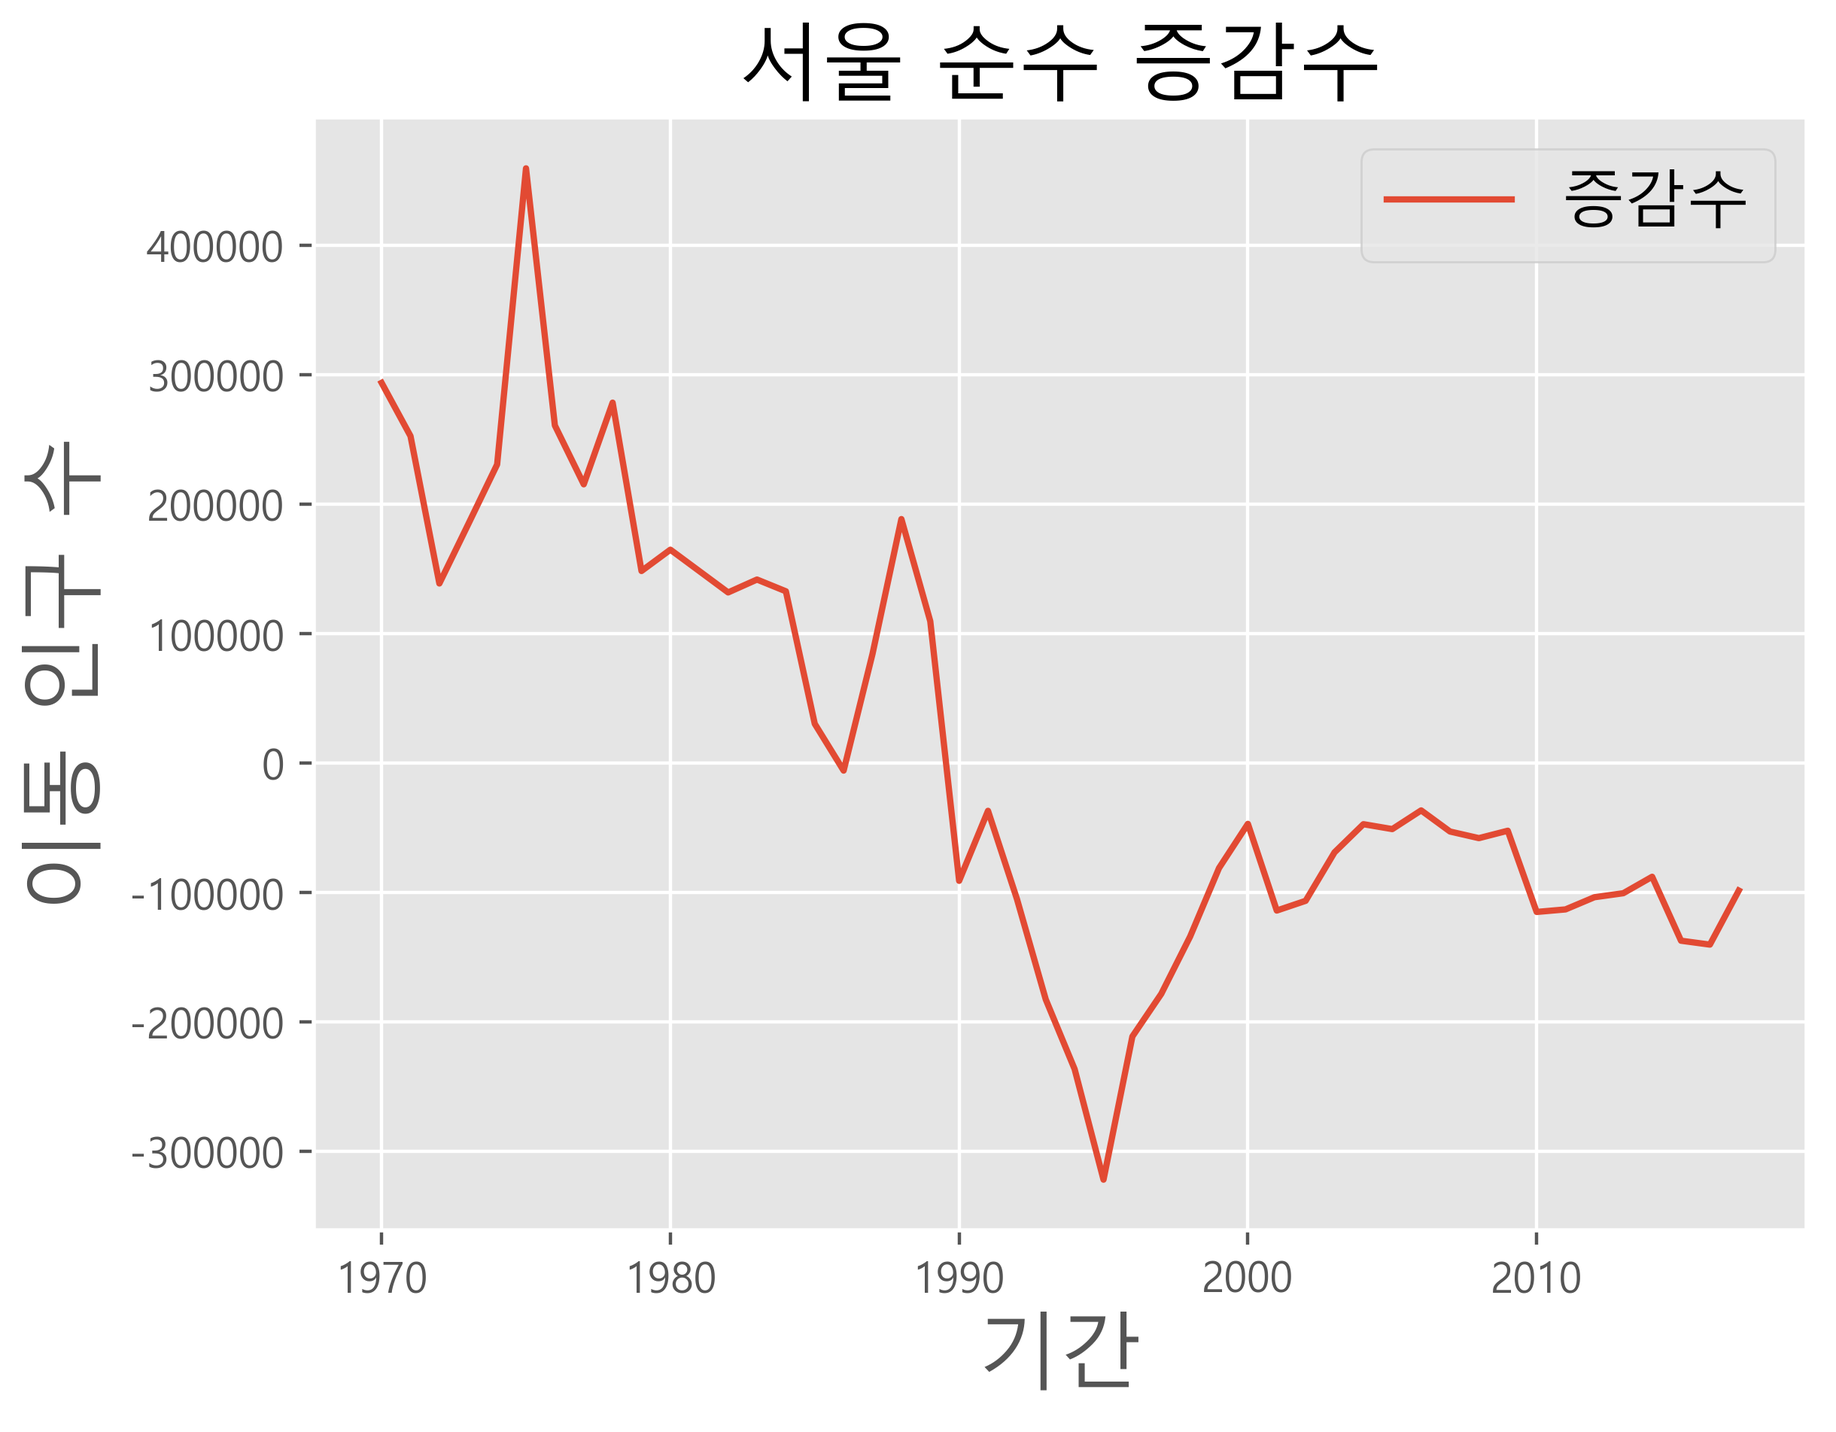
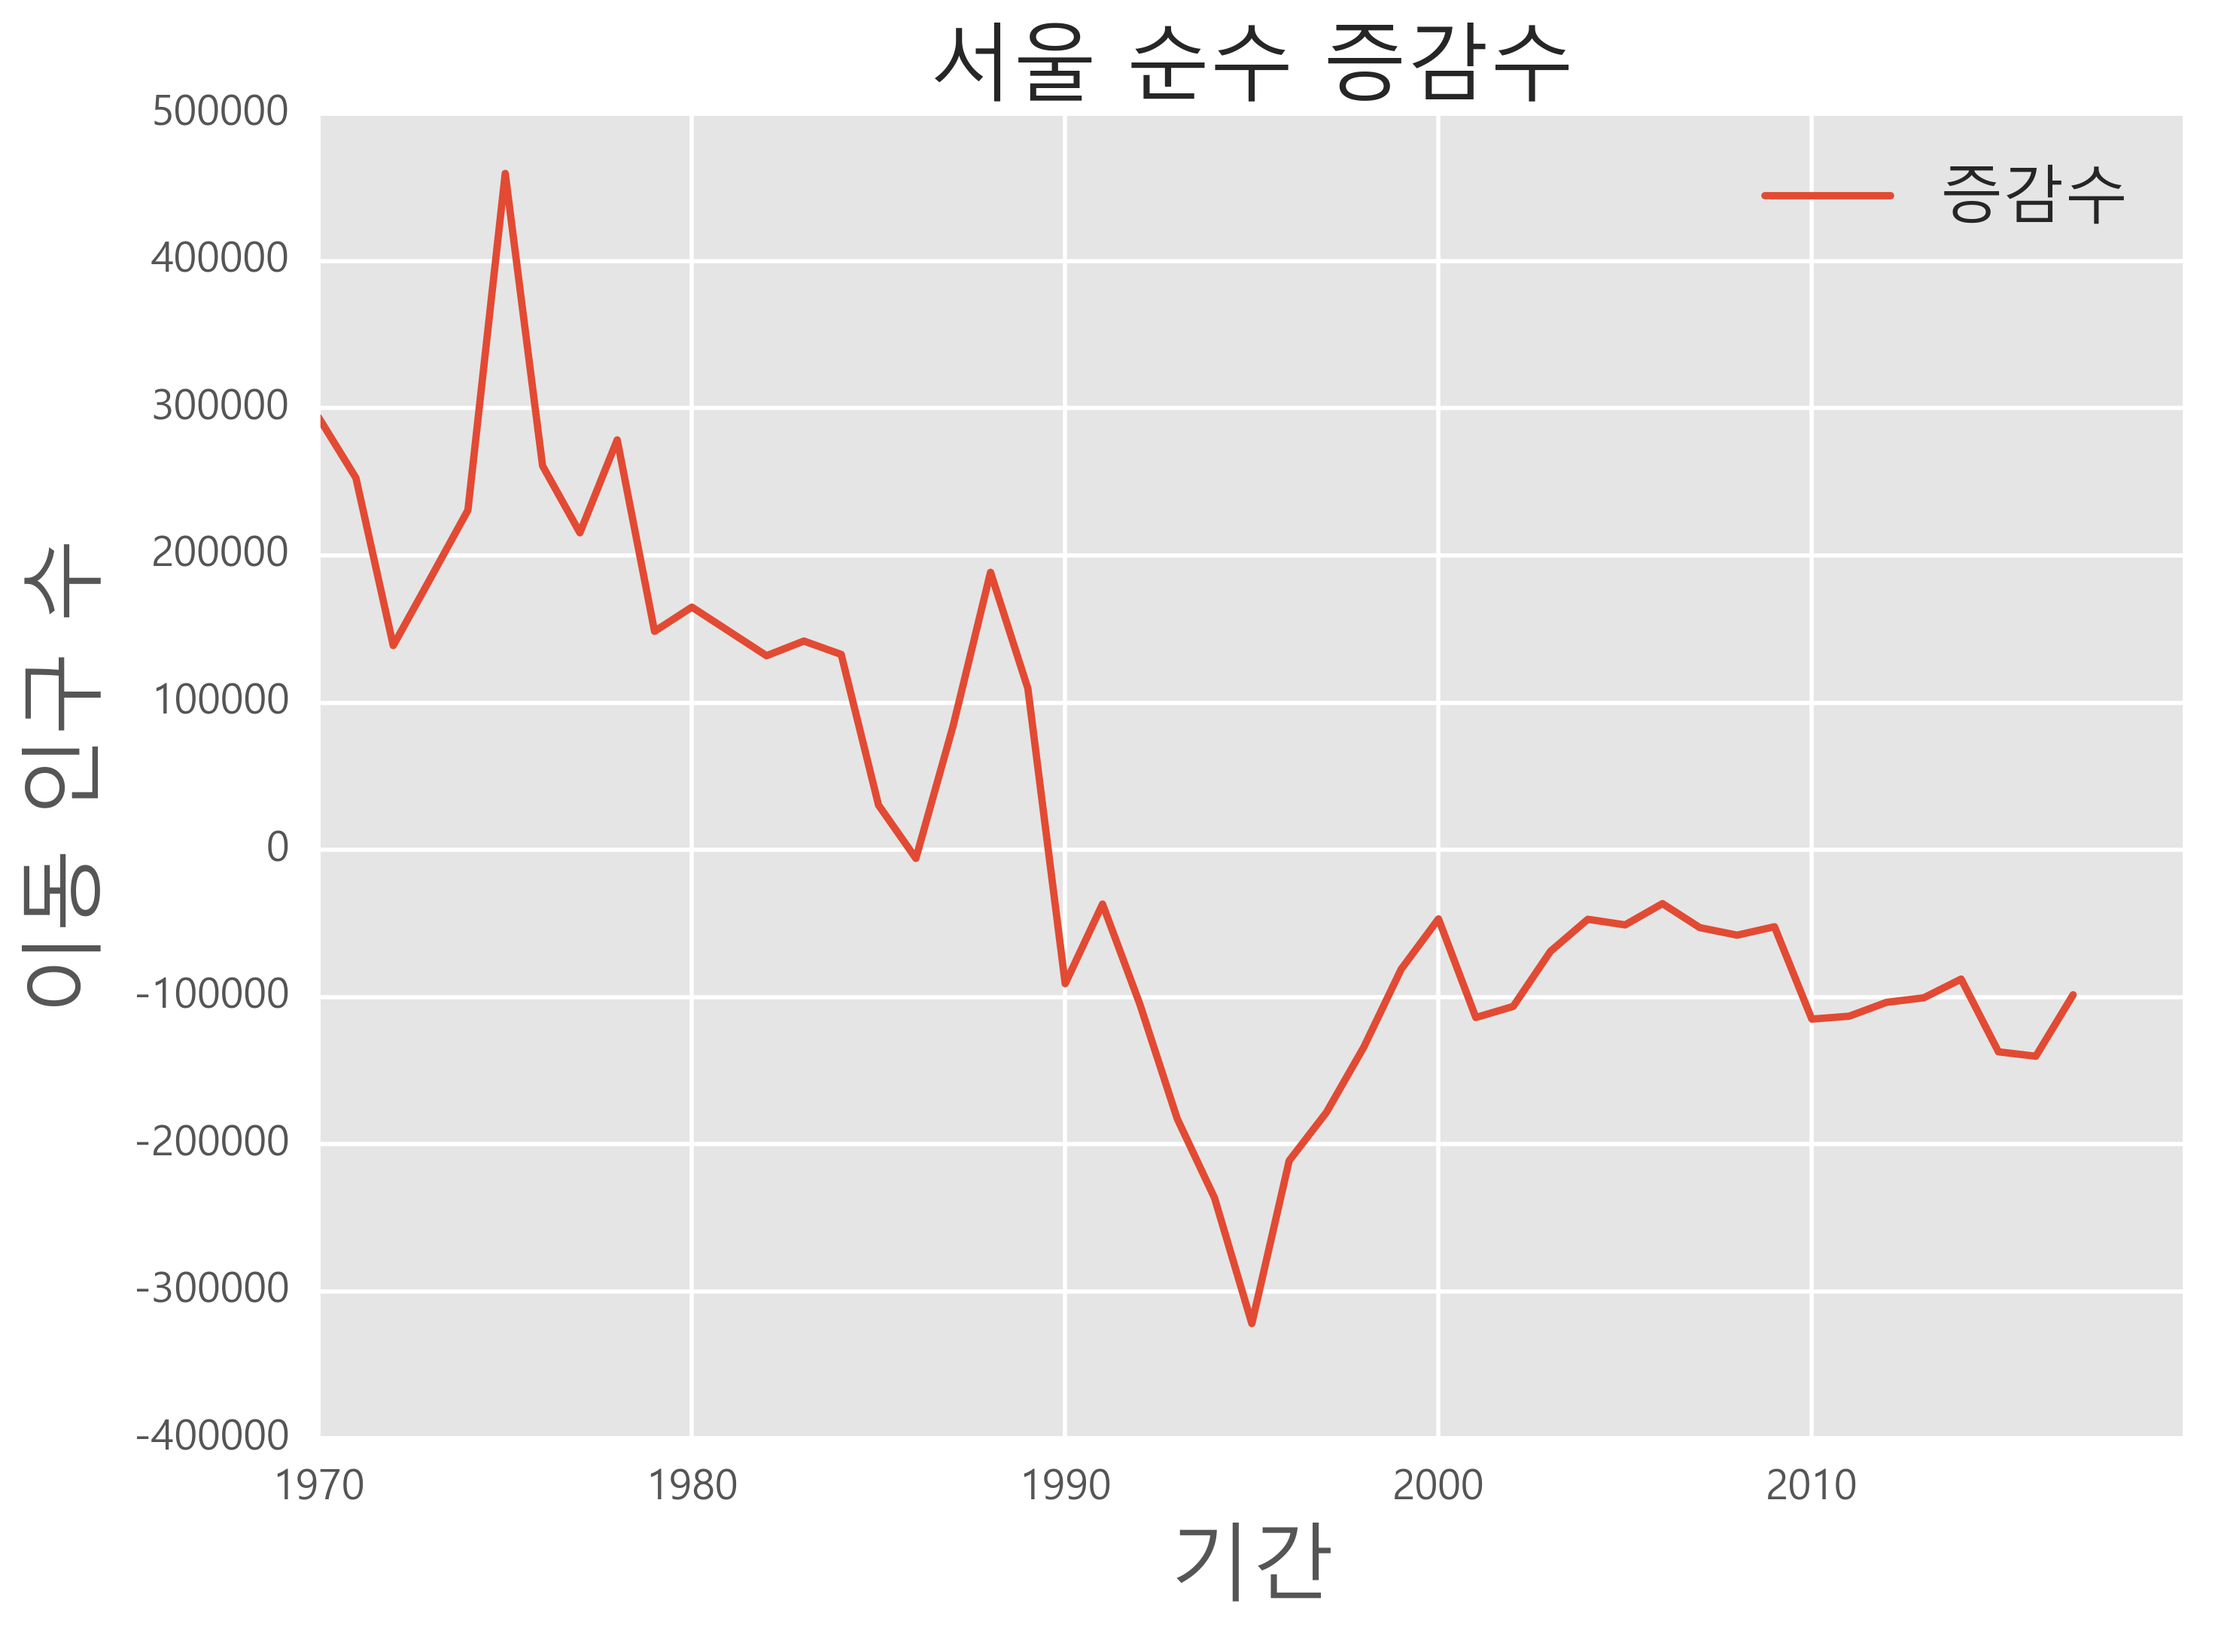
'20221206-0856'

diff --git a/수업소스/test1205_a.py b/수업소스/test1205_a.py
@@ -1,0 +1,142 @@
+# -*- coding: utf-8 -*-
+"""
+Created on Mon Dec  5 15:55:17 2022
+
+@author: KITCOOP
+test1205.py
+"""
+
+#1. 년도별 서울의 전입과 전출 정보를 막대그래프로 작성하여
+#  20221205-1.png 파일로 그래프 저장하기
+# 20221205-1.png 파일 참조
+import pandas as pd
+import matplotlib.pyplot as plt
+from matplotlib import  rc
+rc('font', family="Malgun Gothic") #현재 폰트 변경 설정.
+df = pd.read_excel('data/시도별 전출입 인구수.xlsx', header=0)
+df.info()
+#결측값을 앞의 데이터로 채우기
+df = df.fillna(method='ffill') 
+df.info()
+mask = ((df['전출지별'] == '서울특별시') & (df['전입지별'] == '전국')) 
+df_seoulout = df[mask] #전출지가 서울=>전국
+print(df_seoulout)
+df_seoulout = df_seoulout.drop(['전출지별'], axis=1)
+print(df_seoulout)
+#전입지별 컬럼을 index로 변환
+df_seoulout.set_index('전입지별', inplace=True)
+print(df_seoulout)
+#전국 인덱스를 전출건수 인덱스로 이름 변경
+df_seoulout.rename({'전국':'전출건수'}, axis=0, inplace=True)
+print(df_seoulout) #서울=>전국으로 전출한 건수 정보
+mask = ((df['전입지별'] == '서울특별시') & (df['전출지별'] == '전국'))
+df_seoulin = df[mask] #전국 => 서울 전입 데이터.
+print(df_seoulin)
+df_seoulin = df_seoulin.drop(['전입지별'], axis=1)
+df_seoulin.info()
+#전출지별 컬럼을 인덱스로 변환 
+df_seoulin.set_index('전출지별', inplace=True)
+#전국 인덱스이름을 전입건수로 변경 
+df_seoulin.rename({'전국':'전입건수'}, axis=0, inplace=True)
+print(df_seoulin)
+#pd.concat : 두개의 DataFrame 객체를 한개로 생성
+df_seoul = pd.concat([df_seoulout,df_seoulin])
+print(df_seoul)
+#전치행렬 : 행과열을 변경
+df_seoul = df_seoul.T 
+print(df_seoul)
+#막대그래프 출력
+df_seoul.plot(kind='bar', figsize=(20, 10), width=0.7,
+          color=['orange', 'green'])
+plt.title('서울 전입 전출 건수', size=30)
+plt.ylabel('이동 인구 수', size=20)
+plt.xlabel('기간', size=20)
+plt.ylim(1000000, 3500000) #y축의 데이터값의 범위.
+plt.legend(loc='best', fontsize=15) #범례
+plt.show()
+plt.savefig("202201205-1.png",dpi=400,bbox_inches="tight") #그래프를 파일로 저장 
+
+
+#2. 년도별 서울의 전입과 전출 정보이용하여 순수증감인원수를 
+#  선그래프로 작성하여 20221205-2.png 그래프 저장하기
+# 20221205-2.png 파일 참조
+import pandas as pd
+import matplotlib.pyplot as plt
+plt.rc('font', family="Malgun Gothic")
+df = pd.read_excel('data/시도별 전출입 인구수.xlsx', header=0)
+df = df.fillna(method='ffill')    
+mask = (((df['전출지별'] == '서울특별시') & (df['전입지별'] == '전국')) |
+        ((df['전입지별'] == '서울특별시') & (df['전출지별'] == '전국')))
+df_seoul = df[mask]
+df_seoul
+#'전출지별','전입지별' 컬럼을 삭제 
+df_seoul = df_seoul.drop(['전출지별','전입지별'], axis=1)
+df_seoul.index
+df_seoul.index = ["전입건수",'전출건수']
+print(df_seoul)
+df_seoul = df_seoul.T
+print(df_seoul)
+#증감수 컬럼 추가하기
+df_seoul["증감수"] = df_seoul["전입건수"] - df_seoul["전출건수"]
+print(df_seoul)
+plt.rcParams['axes.unicode_minus']=False #음수표현. -
+plt.style.use('ggplot') 
+#plot함수: 선그래프가 기본.
+df_seoul["증감수"].plot()
+plt.title('서울 순수 증감수', size=20)
+plt.ylabel('이동 인구 수', size=20)
+plt.xlabel('기간', size=20)
+plt.legend(loc='best', fontsize=15)
+plt.show()
+plt.savefig("20221205-2.png",dpi=400,bbox_inches="tight")
+
+
+
+#3. 남한의 전력량을(수력,화력,원자력)을 연합막대그래프로 작성하고,
+#   전력증감율을 선그래프로 작성하여 20221205-3.png 그래프로 저장하기
+# 20221205-3.png 파일 참조
+import pandas as pd
+import matplotlib.pyplot as plt
+plt.style.use('ggplot') 
+plt.rcParams['axes.unicode_minus']=False 
+df = pd.read_excel('data/남북한발전전력량.xlsx')
+df
+df = df.loc[0:4]
+df
+print(df.head())
+#axis='columns' : axis=1 같은 의미
+df.drop('전력량 (억㎾h)', axis='columns', inplace=True)
+print(df.head())
+#발전 전력별 컬럼을 인덱스로 변경
+df.set_index('발전 전력별', inplace=True)
+print(df.head())
+df = df.T
+print(df.head())
+#컬럼명 변경
+df = df.rename(columns={'합계':'총발전량'})
+print(df.head())
+#앞의 총발전량 데이터
+df['총발전량 - 1년'] = df['총발전량'].shift(1)
+print(df.head())
+df['증감율']=((df['총발전량'] / df['총발전량 - 1년']) - 1) * 100      
+print(df)
+ax1 = df[['수력','화력','원자력']].plot(kind='bar', \
+             figsize=(20, 10),  width=0.7, stacked=False)  
+#같은그래프 영역으로 설정    
+ax2 = ax1.twinx() 
+#df.index : x축 값.
+#df.증감율 : y축의 값
+#ls='--' : 선의 종류
+ax2.plot(df.index, df.증감율, ls='--', marker='o', markersize=10, 
+        color='green', label='전년대비 증감율(%)')  
+ax1.set_ylim(0, 5500)
+ax2.set_ylim(-50, 50)
+ax1.set_xlabel('연도', size=20)
+ax1.set_ylabel('발전량(억 KWh)')
+ax2.set_ylabel('전년 대비 증감율(%)')
+plt.title('남한 전력 발전량 (1990 ~ 2016)', size=30)
+ax1.legend(loc='upper left')
+ax2.legend(loc='upper right')
+plt.show()
+plt.savefig("20221205-3.png",dpi=400,bbox_inches="tight")
+
